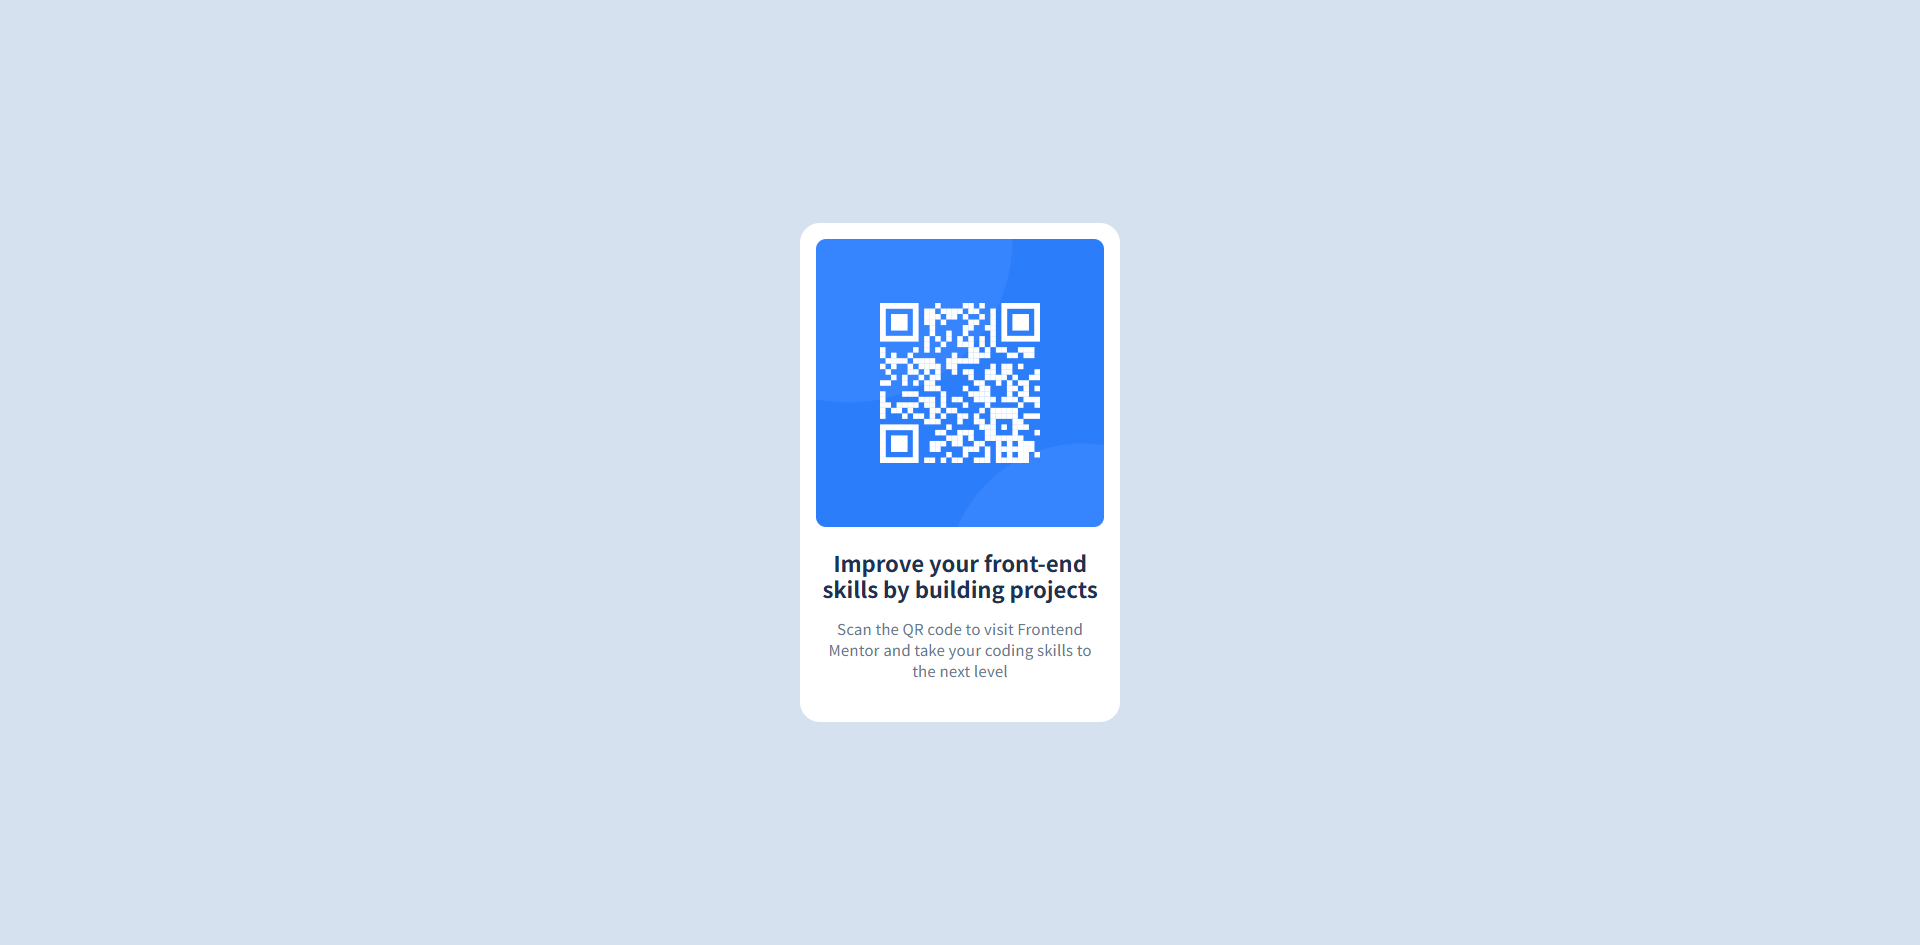
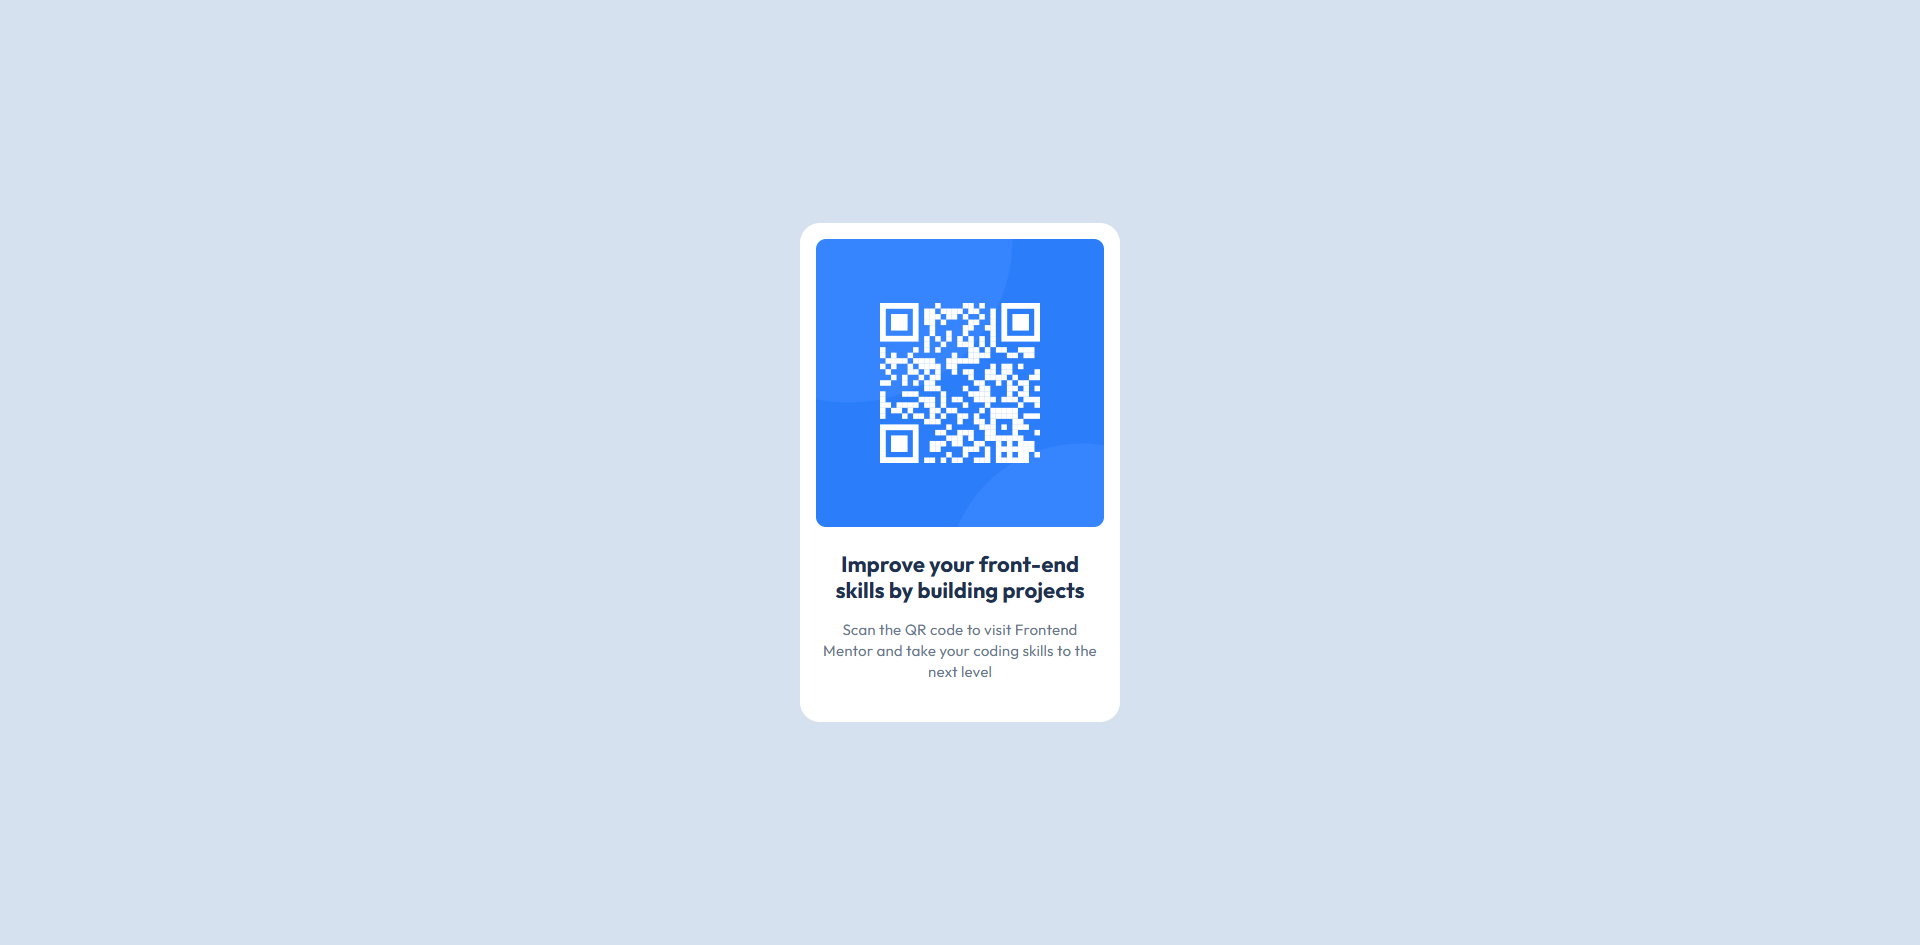
correct the font link

Changed region(s): [[0.4062, 0.5831, 0.5625, 0.7365]]

diff --git a/css/all.css b/css/all.css
@@ -1,4 +1,4 @@
-@import url(https://fonts.google.com/specimen/Outfit);
+@import url("https://fonts.googleapis.com/css2?family=Noto+Sans+TC:wght@100..900&family=Outfit:wght@100..900&display=swap");
 html, body, div, span, applet, object, iframe,
 h1, h2, h3, h4, h5, h6, p, blockquote, pre,
 a, abbr, acronym, address, big, cite, code,

diff --git a/css/_basic.sass b/css/_basic.sass
@@ -1,4 +1,4 @@
-@import url(https://fonts.google.com/specimen/Outfit)
+@import url('https://fonts.googleapis.com/css2?family=Noto+Sans+TC:wght@100..900&family=Outfit:wght@100..900&display=swap')
 
 body
   font-family: 'Outfit', sans-serif
